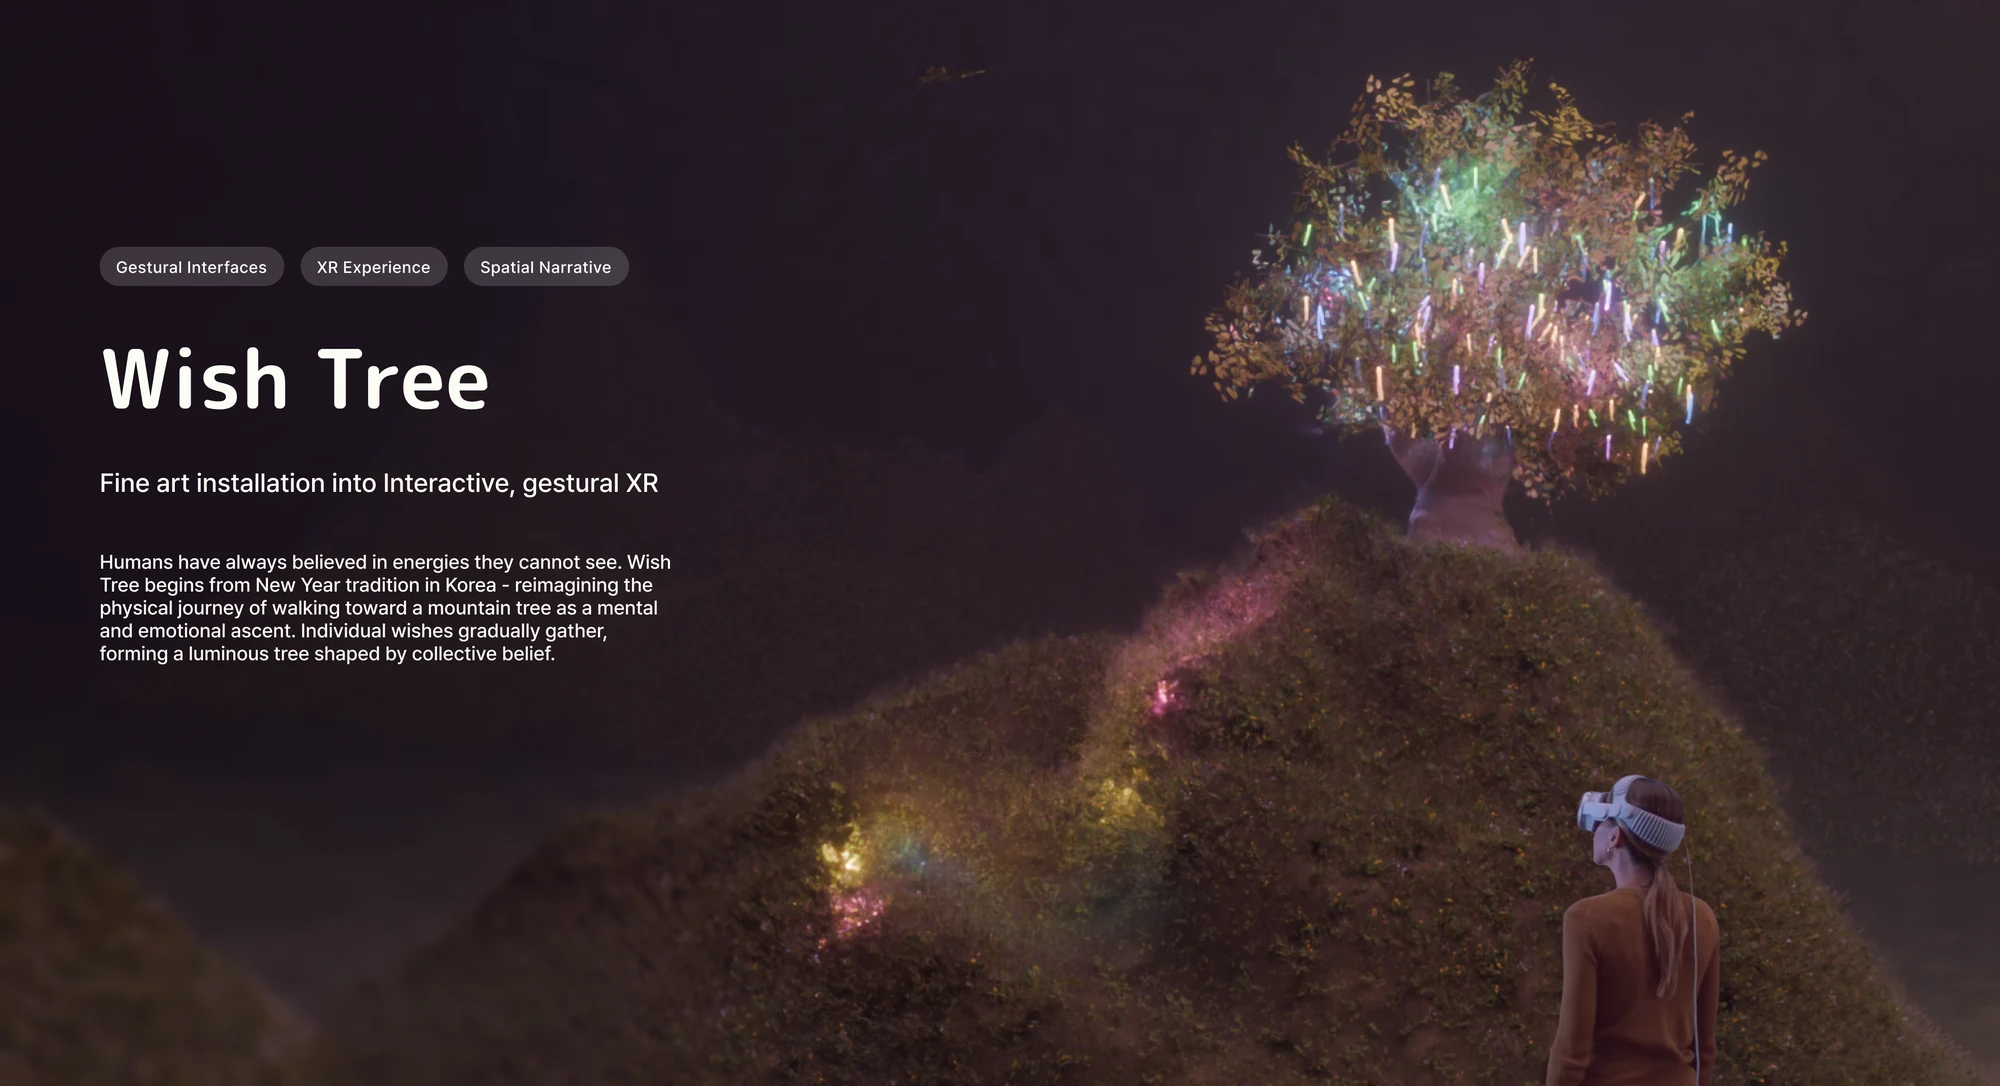
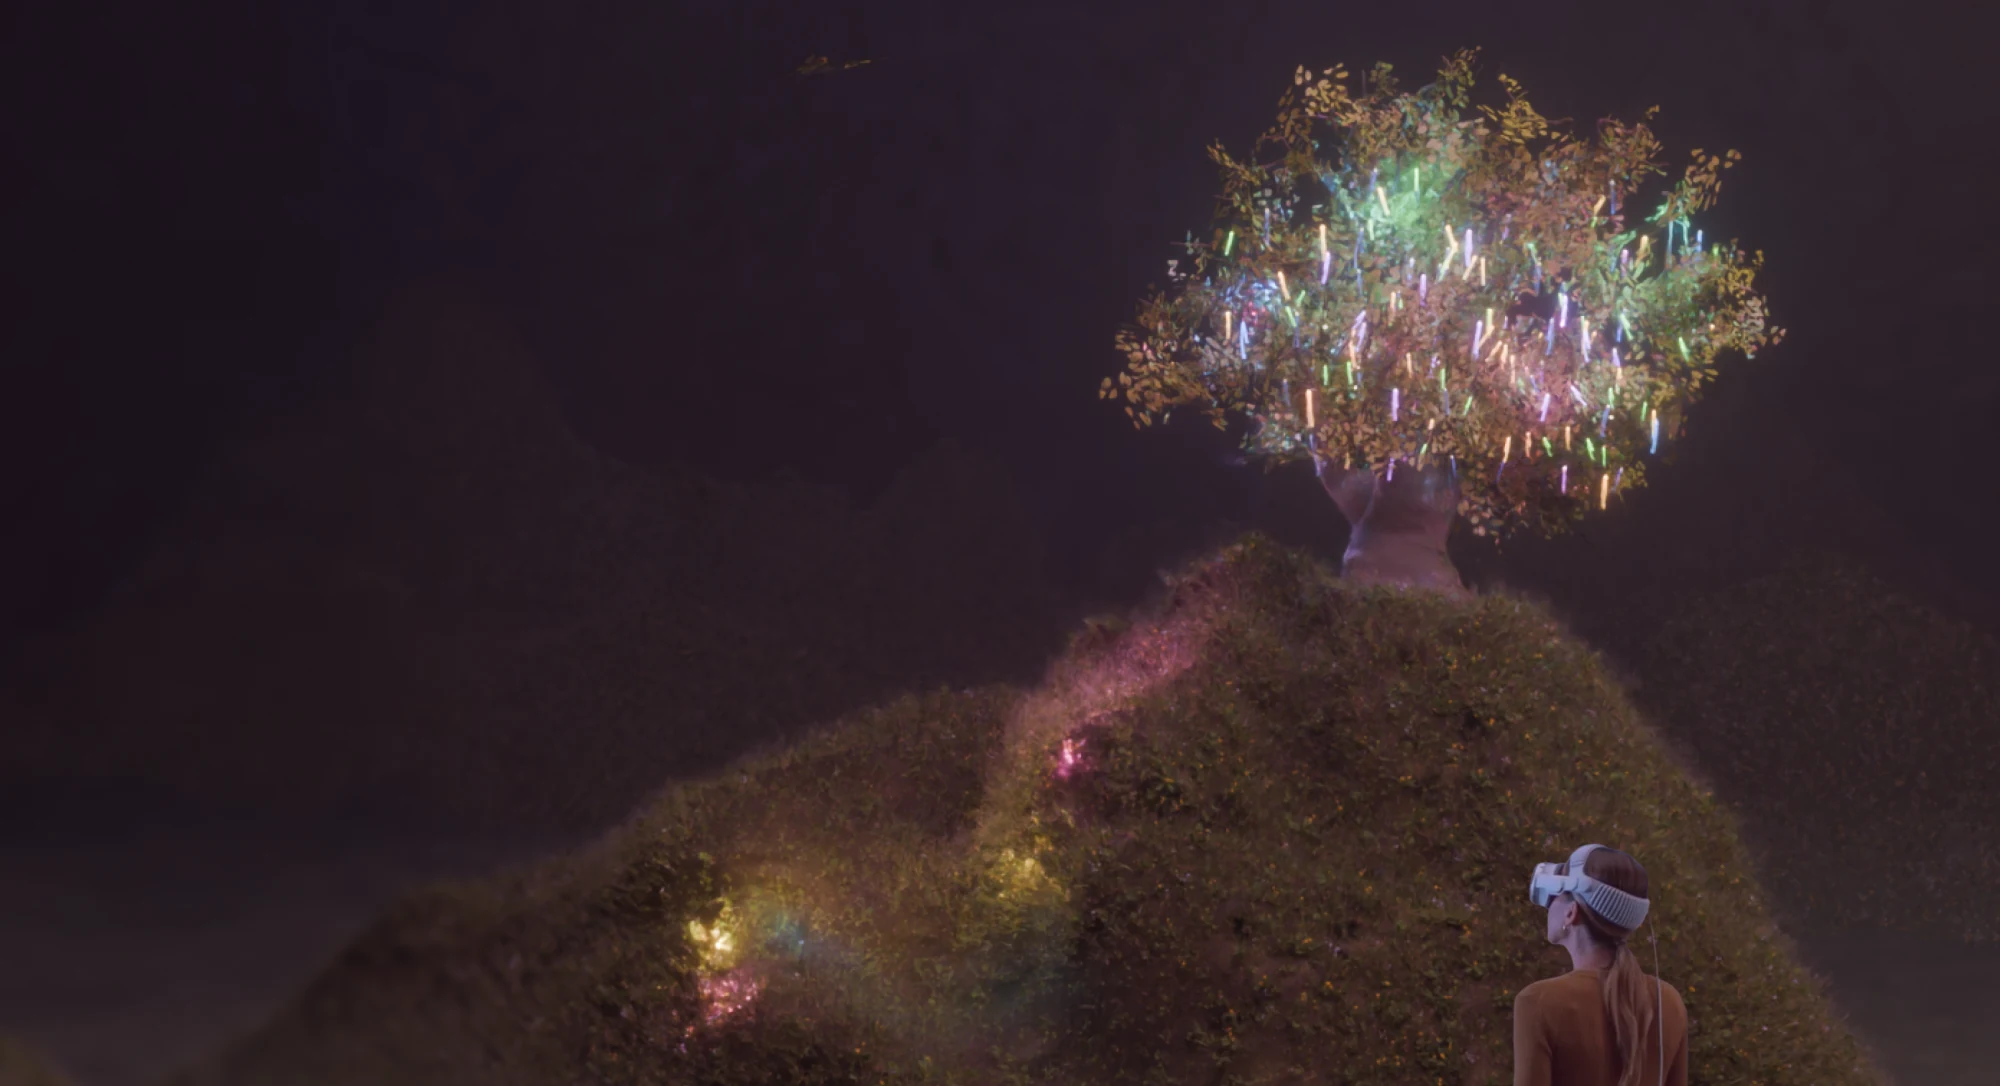
Wish Tree card: the picture without the words
The title, tags and description that were set into the cover are taken
out of the picture (the dark sky and hill behind them filled back in),
and the card is framed a little closer on the tree and the visitor.

Claude-Session: https://claude.ai/code/session_01REV1HQ51KibnFaVQwnW57x

diff --git a/content/site.ts b/content/site.ts
@@ -307,7 +307,7 @@ export const pages: Page[] = [
     meta: "XR • Gesture • 2024",
     year: "2024",
     group: "fun",
-    thumb: "/fun/wish-cover.webp",
+    thumb: "/fun/wish-cover.webp?v=2",
     title: "Wish Tree",
     ticker: "WISH",
     kind: "XR · Gestural interaction",
